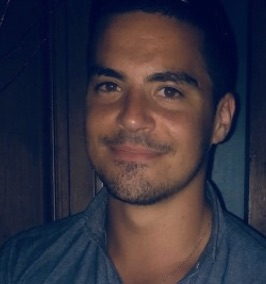
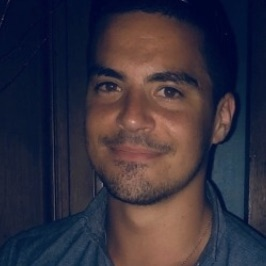
made photos square

diff --git a/people.md b/people.md
@@ -29,7 +29,7 @@ nav-menu: true
                 <header class="major">
                     <h3>Logan Chipkin</h3>
                 </header>
-                <p>Logan Chipkin received his BA in physics from the University of Pennsylvania in 2015. Since 2017, he has been working with Ricardo Azevedo and Peter Olofsson on Muller's Ratchet.  Currently, his research projects include (1) studying the effect of mutators on evolutionary rescue and (2) using phylogenetic comparative methods to test whether or not energy rate density is increasing over evolutionary timescales.</p>
+                <p>Logan Chipkin received his BA in physics from the University of Pennsylvania in 2015. Since 2017, he has been working with Ricardo Azevedo and Peter Olofsson on a branching process model of Muller's Ratchet.  Currently, his research projects include (1) studying the contribution of mutators to evolutionary rescue and (2) using phylogenetic comparative methods to test the hypothesis that energy rate density has a tendency to increase during the course of evolution.</p>
             </div>
         </div>
     </section>
